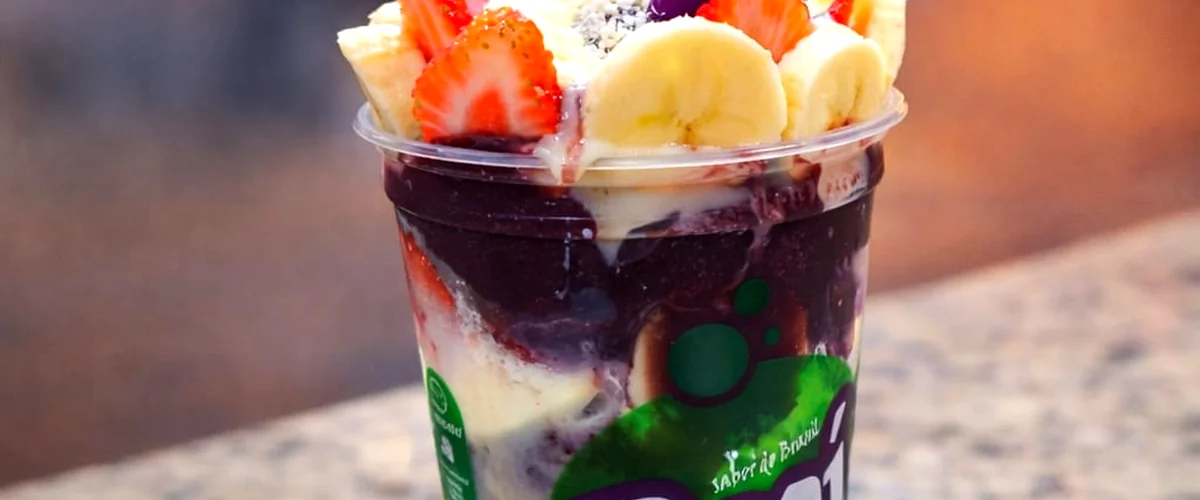
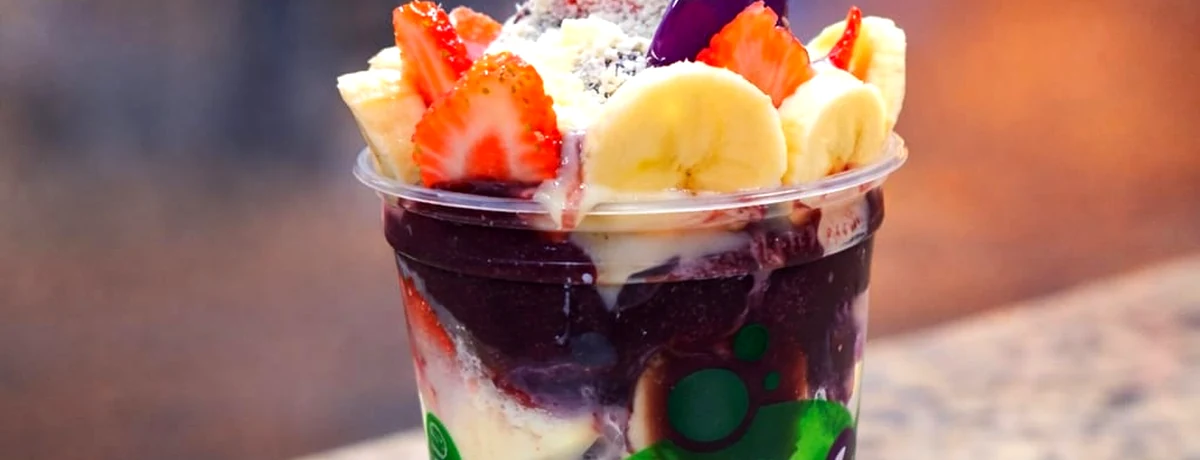
fix: carrossel reescrito - auto-rotacao, responsivo, sem bugs, fotos reprocessadas

diff --git a/index.html b/index.html
@@ -927,153 +927,86 @@ img{max-width:100%;display:block}
 </div>
 </section>
 <!-- ===== CARROSSEL DE PRODUTOS ITAPOLITANA ===== -->
-<section id="itp-carrossel-section" aria-label="Galeria de produtos Itapolitana">
+<section id="itp-crs-section" aria-label="Galeria de produtos Itapolitana">
 <style>
-  /* Carrossel Itapolitana — prefixo itp-crs — responsivo 3 aparelhos */
-  #itp-carrossel-section{width:100%;padding:0;margin:0;background:#111;overflow:hidden;line-height:0}
-  /* === WRAPPER === */
-  #itp-crs-wrapper{
-    position:relative;
-    width:100%;
-    overflow:hidden;
-    /* Desktop */
-    height:460px;
-  }
-  @media(max-width:900px){
-    #itp-crs-wrapper{height:320px;}
-  }
-  @media(max-width:480px){
-    #itp-crs-wrapper{height:220px;}
-  }
-  /* === TRACK: usa translateX em px calculado por JS === */
-  #itp-crs-track{
-    display:flex;
-    height:100%;
-    /* GPU acceleration — sem layout thrashing */
-    transform:translateX(0);
-    transition:transform 0.45s ease-in-out;
-    will-change:transform;
-    -webkit-backface-visibility:hidden;
-    backface-visibility:hidden;
-  }
-  /* === SLIDES === */
-  .itp-crs-slide{
-    /* largura definida por JS (= wrapper.offsetWidth) */
-    flex-shrink:0;
-    height:100%;
-    overflow:hidden;
-    background:#1a0a00;
-  }
-  .itp-crs-slide img{
-    width:100%;
-    height:100%;
-    object-fit:cover;
-    object-position:center;
-    display:block;
-    border:0;
-    margin:0;
-    padding:0;
-    /* evita blur no iOS */
-    -webkit-transform:translateZ(0);
-    transform:translateZ(0);
-  }
-  #itp-crs-dots{position:absolute;bottom:12px;left:50%;transform:translateX(-50%);display:flex;gap:8px;z-index:10;padding:5px 10px;background:rgba(0,0,0,.3);border-radius:20px;backdrop-filter:blur(4px);-webkit-backdrop-filter:blur(4px)}
-  .itp-crs-dot{width:8px;height:8px;border-radius:50%;background:rgba(255,255,255,.45);border:none;cursor:pointer;transition:all .3s ease;padding:0;flex-shrink:0;display:block}
-  .itp-crs-dot.itp-active{background:#fff;transform:scale(1.45)}
-  .itp-crs-btn{position:absolute;top:50%;transform:translateY(-50%);background:rgba(0,0,0,.35);color:#fff;border:none;border-radius:50%;width:38px;height:38px;font-size:18px;cursor:pointer;z-index:10;display:flex;align-items:center;justify-content:center;transition:background .2s;backdrop-filter:blur(6px);-webkit-backdrop-filter:blur(6px);line-height:1}
-  .itp-crs-btn:hover{background:rgba(0,0,0,.65)}
-  #itp-crs-prev{left:12px}
-  #itp-crs-next{right:12px}
-  @media(max-width:480px){.itp-crs-btn{width:30px;height:30px;font-size:14px}#itp-crs-prev{left:6px}#itp-crs-next{right:6px}}
+/* === CARROSSEL ITAPOLITANA - isolado com prefixo itp-crs === */
+#itp-crs-section{width:100%;padding:0;margin:0;background:#111;overflow:hidden;line-height:0;display:block}
+#itp-crs-outer{position:relative;width:100%;overflow:hidden;background:#111;height:460px}
+@media(max-width:900px){#itp-crs-outer{height:320px}}
+@media(max-width:480px){#itp-crs-outer{height:220px}}
+#itp-crs-track{display:flex;height:100%;transition:transform .5s ease;will-change:transform}
+.itp-crs-item{flex:0 0 100%;width:100%;height:100%;overflow:hidden}
+.itp-crs-item img{width:100%;height:100%;object-fit:cover;object-position:center;display:block}
+.itp-crs-arrow{position:absolute;top:50%;transform:translateY(-50%);background:rgba(0,0,0,.45);color:#fff;border:none;border-radius:50%;width:40px;height:40px;font-size:20px;cursor:pointer;z-index:20;display:flex;align-items:center;justify-content:center;transition:background .2s;-webkit-tap-highlight-color:transparent}
+.itp-crs-arrow:hover{background:rgba(0,0,0,.7)}
+#itp-crs-prev{left:10px}
+#itp-crs-next{right:10px}
+@media(max-width:480px){.itp-crs-arrow{width:32px;height:32px;font-size:16px}#itp-crs-prev{left:6px}#itp-crs-next{right:6px}}
+#itp-crs-dots{position:absolute;bottom:10px;left:50%;transform:translateX(-50%);display:flex;gap:7px;z-index:20}
+.itp-crs-dot{width:9px;height:9px;border-radius:50%;background:rgba(255,255,255,.45);border:none;cursor:pointer;padding:0;transition:background .3s,transform .3s}
+.itp-crs-dot.on{background:#fff;transform:scale(1.4)}
 </style>
-<div id="itp-crs-wrapper">
+<div id="itp-crs-outer">
   <div id="itp-crs-track">
-    <div class="itp-crs-slide"><img alt="Sorvete tipo artesanal Maracujá Diet e Leite Ninho - Sorveteria Itapolitana Cajuru" loading="lazy" src="images/carrossel/slide1_sorvete_maracuja.webp"/></div>
-    <div class="itp-crs-slide"><img alt="Açaí Cremoso com Morango e Banana - Sorveteria Itapolitana Cajuru" loading="lazy" src="images/carrossel/slide2_acai_cremoso.webp"/></div>
-    <div class="itp-crs-slide"><img alt="Petit Gateau com Sorvete - Sorveteria Itapolitana Cajuru" loading="lazy" src="images/carrossel/slide3_petit_gateau.webp"/></div>
-    <div class="itp-crs-slide"><img alt="Sorvete com Bolo no Copo Creme de Leite - Sorveteria Itapolitana Cajuru" loading="lazy" src="images/carrossel/slide4_bolo_copo_creme.webp"/></div>
-    <div class="itp-crs-slide"><img alt="Sorvete com Bolo no Copo Nutella - Sorveteria Itapolitana Cajuru" loading="lazy" src="images/carrossel/slide5_bolo_copo_nutella.webp"/></div>
-    <div class="itp-crs-slide"><img alt="Açaí Mosaico de Sabores - Sorveteria Itapolitana Cajuru" loading="lazy" src="images/carrossel/slide6_acai_mosaico.webp"/></div>
-    <div class="itp-crs-slide"><img alt="Picolés em Leque para Eventos com Carrinho Grátis - Sorveteria Itapolitana Cajuru" loading="lazy" src="images/carrossel/slide7_picoles_leque.webp"/></div>
+    <div class="itp-crs-item"><img src="images/carrossel/slide1_sorvete_maracuja.webp" alt="Sorvete de qualidade - Sorveteria Itapolitana Cajuru" loading="eager"/></div>
+    <div class="itp-crs-item"><img src="images/carrossel/slide2_acai_cremoso.webp" alt="Acai Cremoso com Morango e Banana - Sorveteria Itapolitana Cajuru" loading="lazy"/></div>
+    <div class="itp-crs-item"><img src="images/carrossel/slide3_petit_gateau.webp" alt="Petit Gateau com Sorvete - Sorveteria Itapolitana Cajuru" loading="lazy"/></div>
+    <div class="itp-crs-item"><img src="images/carrossel/slide4_bolo_copo_creme.webp" alt="Sorvete com Bolo no Copo - Sorveteria Itapolitana Cajuru" loading="lazy"/></div>
+    <div class="itp-crs-item"><img src="images/carrossel/slide5_bolo_copo_nutella.webp" alt="Sorvete com Bolo no Copo Nutella - Sorveteria Itapolitana Cajuru" loading="lazy"/></div>
+    <div class="itp-crs-item"><img src="images/carrossel/slide6_acai_mosaico.webp" alt="Acai Mosaico de Sabores - Sorveteria Itapolitana Cajuru" loading="lazy"/></div>
+    <div class="itp-crs-item"><img src="images/carrossel/slide7_picoles_leque.webp" alt="Picoles para Eventos com Carrinho Gratis - Sorveteria Itapolitana Cajuru" loading="lazy"/></div>
   </div>
-  <button aria-label="Slide anterior" class="itp-crs-btn" id="itp-crs-prev">&#8249;</button>
-  <button aria-label="Próximo slide" class="itp-crs-btn" id="itp-crs-next">&#8250;</button>
+  <button class="itp-crs-arrow" id="itp-crs-prev" aria-label="Slide anterior">&#8249;</button>
+  <button class="itp-crs-arrow" id="itp-crs-next" aria-label="Proximo slide">&#8250;</button>
   <div id="itp-crs-dots"></div>
 </div>
 <script>
 (function(){
-  'use strict';
   var track=document.getElementById('itp-crs-track');
-  var dotsBox=document.getElementById('itp-crs-dots');
-  var btnPrev=document.getElementById('itp-crs-prev');
-  var btnNext=document.getElementById('itp-crs-next');
-  var slides=track?track.querySelectorAll('.itp-crs-slide'):[];
-  var total=slides.length;
+  var outer=document.getElementById('itp-crs-outer');
+  var dotsEl=document.getElementById('itp-crs-dots');
+  var btnP=document.getElementById('itp-crs-prev');
+  var btnN=document.getElementById('itp-crs-next');
+  if(!track||!outer||!dotsEl||!btnP||!btnN)return;
+  var items=track.querySelectorAll('.itp-crs-item');
+  var total=items.length;
   if(!total)return;
-  var cur=0;
-  var timer=null;
-  var INTERVAL=4000;
-  // Criar dots
+  var cur=0,timer=null,busy=false,DELAY=4500;
   for(var i=0;i<total;i++){
     var d=document.createElement('button');
-    d.className='itp-crs-dot'+(i===0?' itp-active':'');
-    d.setAttribute('aria-label','Ir para slide '+(i+1));
-    d.dataset.idx=i;
-    dotsBox.appendChild(d);
+    d.className='itp-crs-dot'+(i===0?' on':'');
+    d.setAttribute('aria-label','Slide '+(i+1));
+    d.dataset.i=i;
+    dotsEl.appendChild(d);
   }
-  var dots=dotsBox.querySelectorAll('.itp-crs-dot');
-  // Calcula largura real do wrapper em px (evita travamento no celular)
-  var slideW=wrapper.offsetWidth||window.innerWidth;
-  // Atualiza largura de cada slide
-  function setSlideSizes(){
-    slideW=wrapper.offsetWidth||window.innerWidth;
-    slides.forEach(function(s){s.style.width=slideW+'px';});
-  }
-  setSlideSizes();
-  // Atualiza ao redimensionar (tablet/celular rotação)
-  if(window.ResizeObserver){
-    new ResizeObserver(function(){setSlideSizes();goTo(cur);}).observe(wrapper);
-  } else {
-    window.addEventListener('resize',function(){setSlideSizes();goTo(cur);});
-  }
+  var dots=dotsEl.querySelectorAll('.itp-crs-dot');
   function goTo(n){
-    cur=(n+total)%total;
-    // translateX em px — GPU nativo, sem jank
-    track.style.transform='translateX(-'+(cur*slideW)+'px)';
-    dots.forEach(function(d,i){d.classList.toggle('itp-active',i===cur);});
+    if(busy)return;
+    busy=true;
+    cur=(n%total+total)%total;
+    track.style.transform='translateX(-'+(cur*100)+'%)';
+    dots.forEach(function(d,i){d.classList.toggle('on',i===cur);});
+    setTimeout(function(){busy=false;},520);
   }
-  function next(){goTo(cur+1);}
-  function prev(){goTo(cur-1);}
-  function startAuto(){timer=setInterval(next,INTERVAL);}
-  function stopAuto(){clearInterval(timer);}
-  btnNext.addEventListener('click',function(){stopAuto();next();startAuto();});
-  btnPrev.addEventListener('click',function(){stopAuto();prev();startAuto();});
-  dotsBox.addEventListener('click',function(e){
+  function startAuto(){timer=setInterval(function(){goTo(cur+1);},DELAY);}
+  function stopAuto(){clearInterval(timer);timer=null;}
+  btnN.addEventListener('click',function(){stopAuto();goTo(cur+1);startAuto();});
+  btnP.addEventListener('click',function(){stopAuto();goTo(cur-1);startAuto();});
+  dotsEl.addEventListener('click',function(e){
     var t=e.target.closest('.itp-crs-dot');
-    if(t){stopAuto();goTo(parseInt(t.dataset.idx));startAuto();}
+    if(t){stopAuto();goTo(parseInt(t.dataset.i,10));startAuto();}
   });
-  // Swipe touch
-  var tx=0;
-  track.addEventListener('touchstart',function(e){tx=e.touches[0].clientX;},{passive:true});
+  var tx=0,ty=0;
+  track.addEventListener('touchstart',function(e){tx=e.touches[0].clientX;ty=e.touches[0].clientY;},{passive:true});
   track.addEventListener('touchend',function(e){
     var dx=e.changedTouches[0].clientX-tx;
-    if(Math.abs(dx)>40){stopAuto();dx<0?next():prev();startAuto();}
+    var dy=e.changedTouches[0].clientY-ty;
+    if(Math.abs(dx)>Math.abs(dy)&&Math.abs(dx)>40){stopAuto();dx<0?goTo(cur+1):goTo(cur-1);startAuto();}
   },{passive:true});
-  // Pausa ao passar o mouse (desktop)
-  var wrapper=document.getElementById('itp-crs-wrapper');
-  wrapper.addEventListener('mouseenter',stopAuto);
-  wrapper.addEventListener('mouseleave',startAuto);
-  // Lazy load: carrega apenas slide atual e próximo
-  function lazyLoad(){
-    slides.forEach(function(s,i){
-      var img=s.querySelector('img');
-      if(img&&!img.src&&img.dataset.src&&(i===cur||i===(cur+1)%total)){
-        img.src=img.dataset.src;
-      }
-    });
-  }
-  // Primeiro slide carrega imediatamente
-  slides[0].querySelector('img').removeAttribute('loading');
+  outer.addEventListener('mouseenter',stopAuto);
+  outer.addEventListener('mouseleave',startAuto);
+  document.addEventListener('visibilitychange',function(){document.hidden?stopAuto():startAuto();});
+  goTo(0);
   startAuto();
 })();
 </script>
